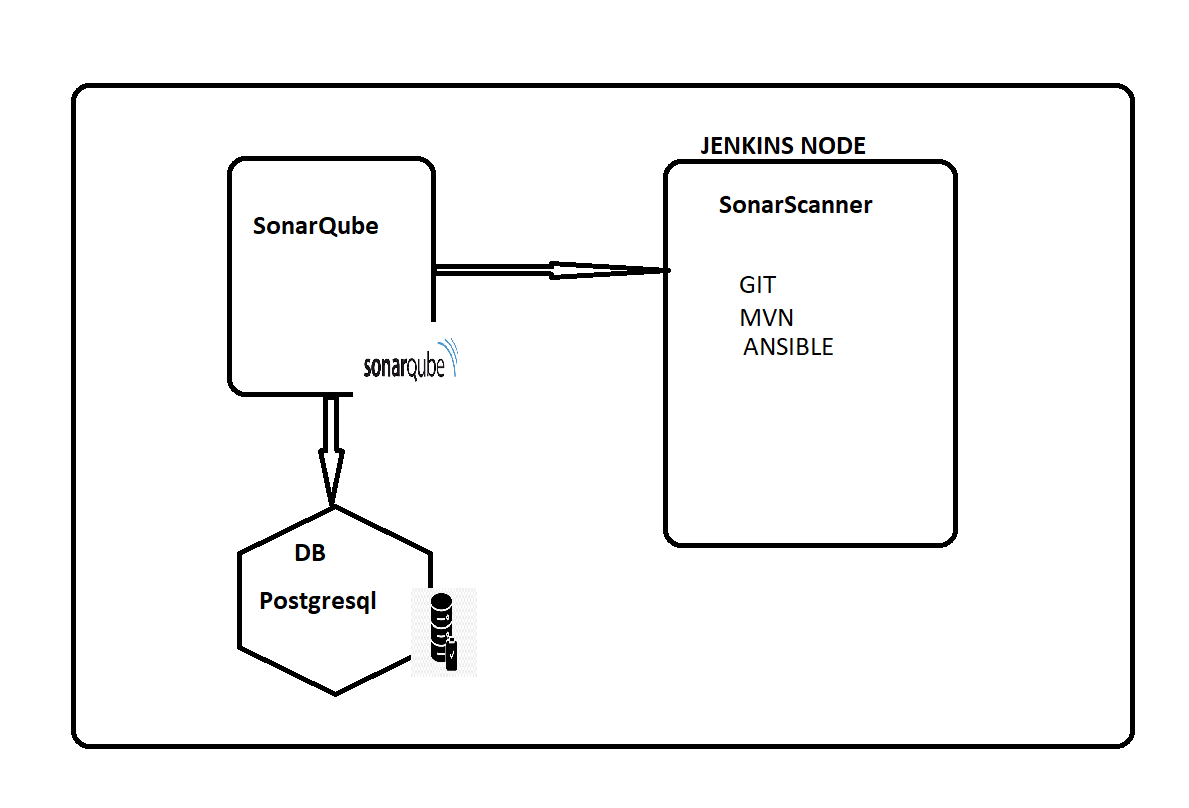
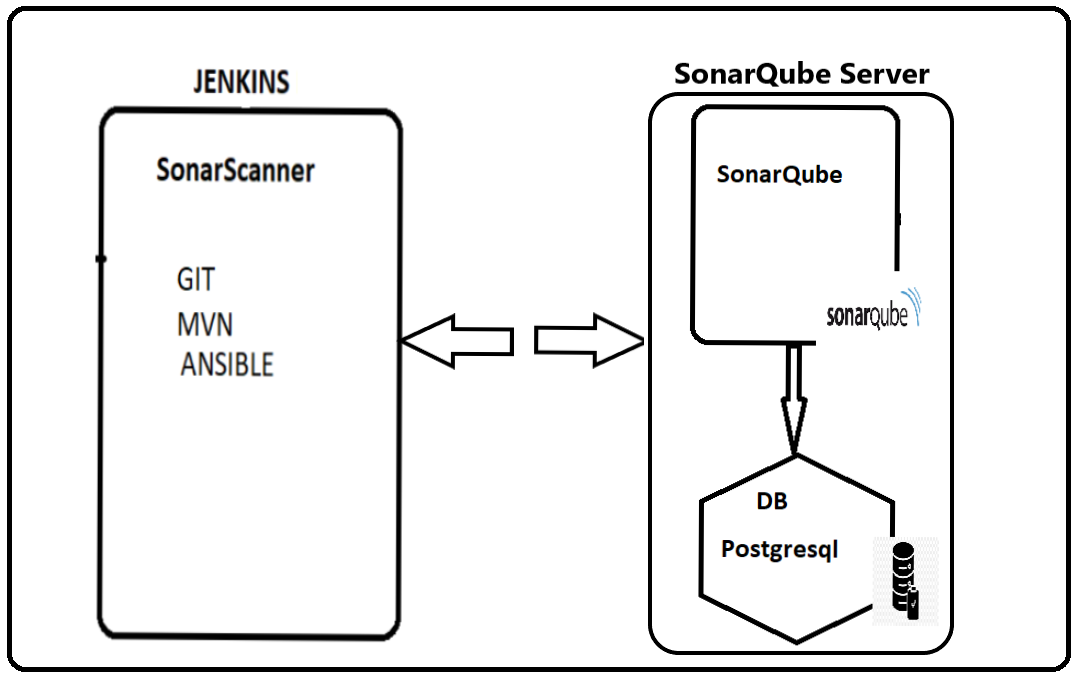
s

Changed region(s): [[0.0, 0.0, 1.0, 0.9825], [0.7959, 0.7061, 0.8265, 0.7368]]

diff --git a/FEB-2023/Sonarqube & Jfrog/SonarQube.md b/FEB-2023/Sonarqube & Jfrog/SonarQube.md
@@ -2,7 +2,7 @@
 * SonarQube is an open-source static testing analysis software, it is used by developers to manage source code quality and consistency.
 * __sonarscanner-for-maven__ Official docs [REFERHERE](https://docs.sonarqube.org/latest/analysis/scan/sonarscanner-for-maven/)
 
-## SonarQube work-flow:
+## SonarQube Architecture:
 ![preview](../images/sqworking.png)
 
 
